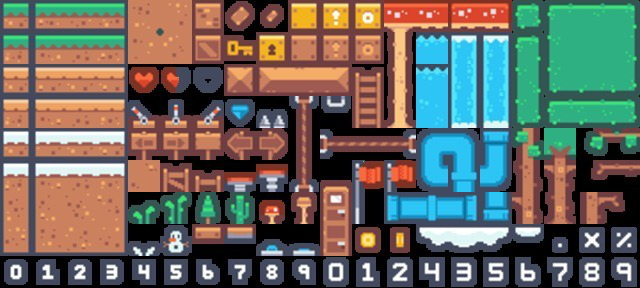
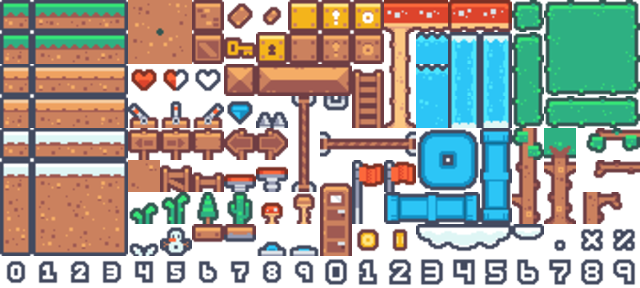
Al 6-lea commit: coliziunile sunt ok, am renuntat pe parcurs la cateva functii, am reusit sa parsez mapa cu 3 layere.

diff --git a/src/Levels/LevelHandler.java b/src/Levels/LevelHandler.java
@@ -11,31 +11,127 @@ public class LevelHandler {
     private Game game;
     private BufferedImage []levelMap;
     private Level FirstLevel;
+    private Level FirstLevel2;
+    private Level BackGround;
     public LevelHandler(Game game)
     {
         this.game = game;
         importMapSprites();
-        FirstLevel = new Level(Load.getLevelMatrix());
+        FirstLevel = new Level(new int[][]{
+                {0,0,0,0,0,0,0,0,0,0,0,0,0,0,0,0,0,0,0,0,0,0,0,0,0,0,0,0,0,0,0,0,0,0,0,0,0,0,0,0,0,0,0,0,0,0,0,0,0,0,0,0,0,0,0,0,0,0,0,0},
+                {0,0,0,0,0,0,0,0,0,0,0,0,0,0,0,0,0,0,0,0,0,0,0,0,0,0,0,0,0,0,0,0,0,0,0,0,0,0,0,0,0,0,0,0,0,0,0,0,0,0,0,0,0,0,0,0,0,0,0,0},
+                {0,0,0,0,0,0,0,0,0,157,0,0,0,0,0,0,0,0,0,0,0,0,0,0,0,0,0,0,0,0,154,155,155,155,155,155,155,156,0,0,0,0,0,0,0,0,0,0,0,0,0,0,0,0,0,0,0,0,0,0},
+                {0,0,0,154,155,155,155,155,156,0,0,0,0,0,0,0,0,0,0,0,0,0,0,0,0,0,0,0,0,0,0,0,154,155,155,156,0,0,0,0,0,0,0,0,0,0,154,155,155,156,0,0,0,0,0,0,0,0,0,0},
+                {0,0,157,0,0,0,0,0,0,0,0,0,0,0,0,0,0,0,154,155,156,0,0,0,0,0,0,0,0,0,0,0,0,0,0,0,0,0,0,0,0,0,0,0,0,0,0,0,0,0,0,0,0,0,0,0,0,0,0,0},
+                {0,0,0,0,0,0,0,0,0,0,0,0,0,0,0,0,0,0,0,0,0,0,0,0,154,155,156,0,0,0,0,0,0,0,0,0,0,0,0,0,0,0,0,0,0,0,0,0,0,0,0,0,0,0,157,0,0,0,0,0},
+                {0,0,0,0,0,0,0,0,0,0,0,0,0,0,0,0,0,0,0,0,0,0,0,0,0,0,0,0,0,0,0,0,0,0,0,0,0,0,0,0,0,0,0,0,0,0,0,0,0,0,0,0,0,0,0,0,0,0,0,0},
+                {0,0,0,0,0,0,0,0,0,0,0,0,0,0,0,0,0,0,0,0,0,0,0,0,0,0,0,0,0,0,0,0,0,0,0,0,0,0,0,0,0,0,0,2,3,3,3,4,0,0,0,0,0,0,0,0,0,0,0,0},
+                {0,0,0,0,0,0,0,0,0,0,0,0,0,0,0,0,0,0,0,0,0,0,0,0,0,0,0,0,0,0,0,0,0,0,0,0,0,0,0,0,0,0,0,0,0,0,0,0,0,0,0,0,0,0,0,0,0,0,0,0},
+                {0,0,2,3,4,0,0,0,0,0,0,0,0,0,0,0,0,0,0,0,0,0,0,0,0,0,0,0,0,0,0,0,0,0,0,0,0,0,0,0,0,0,0,0,0,0,0,0,0,0,0,0,0,0,0,0,0,0,0,0},
+                {0,0,0,0,0,0,0,0,0,0,0,0,0,0,0,0,0,0,0,0,0,0,0,0,0,0,0,0,22,23,23,23,23,23,23,24,0,0,0,2,3,3,4,0,0,0,0,0,0,0,0,0,0,0,0,0,0,0,0,0},
+                {0,0,0,0,0,0,0,0,0,0,0,0,0,0,0,0,0,0,0,0,0,0,0,22,23,23,23,23,123,123,123,123,123,123,123,124,0,0,0,0,0,0,0,0,0,0,0,0,0,0,0,22,23,24,0,0,0,0,0,0},
+                {0,0,0,0,0,89,0,0,0,0,0,0,0,0,0,0,0,0,0,0,0,0,22,123,123,123,123,123,123,123,123,123,123,123,123,124,0,0,0,0,0,0,0,0,0,0,0,0,0,0,22,123,123,123,23,23,24,0,0,0},
+                {0,0,0,0,0,22,23,23,23,23,24,0,0,0,0,0,0,0,0,22,23,23,123,123,123,123,123,123,123,123,123,123,123,123,123,124,0,0,0,0,0,0,0,0,0,0,0,0,0,22,123,123,123,123,123,123,123,24,0,0},
+                {0,22,23,23,23,123,123,123,123,123,123,24,0,0,0,0,0,0,22,123,123,123,123,123,123,123,123,123,123,123,123,123,123,123,123,123,23,23,23,23,24,0,0,0,0,0,0,0,0,122,123,123,123,123,123,123,123,123,23,24},
+                {22,123,123,123,123,123,123,123,123,123,123,123,23,23,23,23,23,23,123,123,123,123,123,123,123,123,123,123,123,123,123,123,123,123,123,123,123,123,123,123,123,24,69,69,69,69,22,23,23,123,123,123,123,123,123,123,123,123,123,124},
+                {122,123,123,123,123,123,123,123,123,123,123,123,123,123,123,123,123,123,123,123,123,123,123,123,123,123,123,123,123,123,123,123,123,123,123,123,123,123,123,123,123,123,123,123,123,123,123,123,123,123,123,123,123,123,123,123,123,123,123,124},
+                {122,123,123,123,123,123,123,123,123,123,123,123,123,123,123,123,123,123,123,123,123,123,123,123,123,123,123,123,123,123,123,123,123,123,123,123,123,123,123,123,123,123,123,123,123,123,123,123,123,123,123,123,123,123,123,123,123,123,123,124},
+                {122,123,123,123,123,123,123,123,123,123,123,123,123,123,123,123,123,123,123,123,123,123,123,123,123,123,123,123,123,123,123,123,123,123,123,123,123,123,123,123,123,123,123,123,123,123,123,123,123,123,123,123,123,123,123,123,123,123,123,124},
+                {142,143,143,143,143,143,143,143,143,143,143,143,143,143,143,143,143,143,143,143,143,143,143,143,143,143,143,143,143,143,143,143,143,143,143,143,143,143,143,143,143,143,143,143,143,143,143,143,143,143,143,143,143,143,143,143,143,143,143,144}
+        });
+        FirstLevel2 = new Level(new int[][]{
+        {0,0,0,0,0,0,0,0,0,0,0,0,0,0,0,0,0,0,0,0,0,0,0,0,0,0,0,0,0,0,0,0,0,0,0,0,0,0,0,0,0,0,0,0,0,0,0,0,0,0,0,0,0,0,0,0,0,0,0,0},
+        {0,0,0,0,0,0,0,0,0,0,0,0,0,0,0,0,0,0,0,0,0,0,0,0,0,0,0,0,0,0,0,0,0,0,0,0,0,0,0,0,0,0,0,0,0,0,0,0,0,0,0,0,0,0,0,0,0,0,0,0},
+        {0,0,0,0,0,0,0,0,0,0,0,0,0,0,0,0,0,0,0,0,0,0,0,0,0,0,0,0,0,0,0,0,0,0,0,0,0,0,0,0,0,0,0,0,0,0,0,0,0,0,0,0,0,0,0,0,0,0,0,0},
+        {0,0,0,0,0,0,0,0,0,0,0,0,0,0,0,0,0,0,0,0,0,0,0,0,0,0,0,0,0,0,0,0,0,0,0,0,0,0,0,0,0,0,0,0,0,0,0,0,0,0,0,0,0,0,0,0,0,0,0,0},
+        {0,0,0,0,0,0,0,0,0,0,0,0,0,0,0,0,0,0,0,0,0,0,0,0,0,0,0,0,0,0,0,0,0,0,0,0,0,0,0,0,0,0,0,0,0,0,0,0,0,0,0,0,0,0,0,0,0,0,0,0},
+        {0,0,0,0,0,0,0,0,0,0,0,0,0,0,0,0,0,0,0,0,0,0,0,0,0,0,0,0,0,0,0,0,0,0,0,0,0,0,0,0,0,0,0,0,0,0,0,0,0,0,0,0,0,0,0,0,0,0,0,0},
+        {0,0,0,0,0,0,0,0,0,0,0,0,0,0,0,0,0,0,0,0,0,0,0,0,0,0,0,0,0,0,0,0,0,0,0,0,0,0,0,0,0,0,0,0,0,0,0,0,0,0,0,0,0,0,0,0,0,0,0,0},
+        {0,0,0,0,0,0,0,0,0,0,0,0,0,0,0,0,0,0,0,0,0,0,0,0,0,0,0,0,0,0,0,0,0,0,0,0,0,0,0,0,0,0,0,0,0,0,0,0,0,0,0,0,0,0,0,0,0,0,0,0},
+        {0,0,0,0,0,0,0,0,0,0,0,0,0,0,0,0,0,0,0,0,0,0,0,0,0,0,0,0,0,0,0,0,0,0,0,0,0,0,0,0,0,0,0,0,0,0,0,0,0,0,0,0,0,0,0,0,0,0,0,0},
+        {0,0,0,0,0,0,0,0,0,0,0,0,0,0,0,0,0,0,0,0,0,0,0,0,0,0,0,0,0,0,0,0,0,0,0,0,0,0,0,0,0,0,0,0,0,0,0,0,0,0,0,0,0,0,0,0,0,0,0,0},
+        {0,0,0,0,0,0,0,0,0,0,0,0,0,0,0,0,0,0,0,0,0,0,0,0,0,0,0,0,0,0,0,0,0,0,0,0,0,0,0,0,0,0,0,0,0,0,0,0,0,0,0,0,0,0,0,0,0,0,0,0},
+        {0,0,0,0,0,0,0,0,0,0,0,0,0,0,0,0,0,0,0,0,0,0,0,0,0,0,0,0,0,0,0,0,0,0,0,0,0,0,0,0,0,0,0,0,0,0,0,0,0,0,0,0,0,0,0,0,0,0,0,0},
+        {0,0,0,0,0,0,0,0,0,0,0,0,0,0,0,0,0,0,0,0,0,0,0,0,0,0,0,0,0,0,0,0,0,0,0,0,0,0,0,0,0,0,0,0,0,0,0,0,0,0,0,0,0,0,0,0,0,0,0,0},
+        {0,0,0,0,0,0,0,0,0,0,0,0,0,0,0,0,0,0,0,0,0,0,0,0,0,0,0,0,0,0,0,126,0,0,0,0,0,0,0,0,0,0,0,0,0,0,0,0,0,0,0,0,0,0,0,0,0,0,0,0},
+        {0,0,0,0,0,0,0,0,0,0,0,0,0,0,0,0,0,0,0,0,0,0,0,0,0,0,0,0,22,23,23,23,24,0,0,0,0,0,0,0,0,0,0,0,0,0,0,0,0,0,0,0,0,0,0,0,0,0,0,0},
+        {0,0,0,0,129,0,0,0,0,0,0,0,0,0,0,0,0,0,0,0,0,0,0,0,0,0,0,0,122,123,123,123,124,0,0,0,0,0,0,0,0,0,0,0,0,0,0,0,0,0,0,0,0,127,127,0,0,0,0,0},
+        {0,0,0,0,62,63,64,0,0,0,0,0,0,0,0,0,0,0,0,0,0,0,0,0,0,0,0,0,122,123,123,123,124,0,0,0,0,0,0,0,0,0,0,0,0,0,0,0,0,0,0,0,22,23,23,24,0,0,0,0},
+        {0,0,0,0,122,123,124,0,0,0,0,0,0,0,0,0,0,0,0,0,0,0,0,0,0,0,0,0,122,123,123,123,124,0,0,0,0,0,0,0,0,0,0,0,0,0,0,0,0,0,0,0,122,123,123,124,0,0,0,0},
+        {0,0,0,0,122,123,124,0,0,0,0,0,0,0,0,0,0,0,0,0,0,0,0,0,0,0,0,0,122,123,123,123,124,0,0,0,0,0,0,0,0,0,0,0,0,0,0,0,0,0,0,0,122,123,123,124,0,0,0,0},
+        {0,0,0,0,142,143,144,0,0,0,0,0,0,0,0,0,0,0,0,0,0,0,0,0,0,0,0,0,142,143,143,143,144,0,0,0,0,0,0,0,0,0,0,0,0,0,0,0,0,0,0,0,142,143,143,144,0,0,0,0}}
+    );
+
+        BackGround = new Level(new int[][]{
+                {0,0,0,0,0,0,0,0,0,0,0,0,0,0,0,0,0,0,0,0,0,0,0,0,0,0,0,0,0,0,0,0,0,0,0,0,0,0,0,0,0,0,0,0,0,0,0,0,0,0,0,0,0,0,0,0,0,0,0,0},
+                {0,0,0,0,0,0,0,0,0,0,0,0,0,0,0,0,0,0,0,0,0,0,0,0,0,0,0,0,0,0,0,0,0,0,0,0,0,0,0,0,0,0,0,0,0,0,0,0,0,0,0,0,0,0,0,0,0,0,0,0},
+                {0,0,0,0,0,0,0,0,0,0,0,0,0,0,0,0,0,0,0,0,0,0,0,0,0,0,0,0,0,0,0,0,0,0,0,0,0,0,0,0,0,0,0,0,0,0,0,0,0,0,0,0,0,0,0,0,0,0,0,0},
+                {0,0,0,0,0,0,0,0,0,0,0,0,0,0,0,0,0,0,0,0,0,0,0,0,0,0,0,0,0,0,0,0,0,0,0,0,0,0,0,0,0,0,0,0,0,0,0,0,0,0,0,0,0,0,0,0,0,0,0,0},
+                {0,0,0,0,0,0,0,0,0,0,0,0,0,0,18,19,19,20,0,0,0,0,0,0,0,0,0,0,0,0,0,0,0,0,0,0,0,0,0,0,0,0,0,0,0,0,0,0,0,0,0,0,0,0,0,0,0,0,0,0},
+                {0,0,0,0,0,0,0,0,0,0,0,0,0,0,38,39,18,19,19,20,0,0,0,0,0,0,0,0,0,0,0,0,0,0,0,0,0,0,0,0,0,0,0,0,0,0,0,0,0,0,0,0,0,0,0,0,0,0,0,0},
+                {0,0,0,0,0,0,0,0,0,0,0,0,0,18,39,39,38,39,39,40,0,0,0,0,0,0,0,0,0,0,0,0,0,0,0,0,0,0,0,0,0,0,0,0,0,0,0,129,0,0,0,0,0,0,0,0,0,0,0,0},
+                {0,0,0,0,0,0,0,0,0,0,0,18,19,19,20,39,38,39,39,40,0,0,0,0,0,0,0,0,0,0,0,0,0,0,0,0,0,0,0,0,0,0,0,0,0,0,0,0,0,0,0,0,0,0,0,0,0,0,0,0},
+                {0,0,0,0,0,0,0,0,0,0,0,38,39,39,40,39,58,59,59,60,0,0,0,0,0,0,0,0,0,0,0,0,0,0,0,0,0,0,0,0,0,0,0,0,0,0,0,0,0,0,0,0,0,0,0,0,0,0,0,0},
+                {0,0,0,0,0,0,0,0,0,0,0,58,59,59,60,39,39,40,0,0,0,0,0,0,0,0,0,0,0,0,0,0,0,0,0,0,0,0,0,0,0,0,0,0,0,0,0,0,0,0,0,0,0,0,0,0,0,0,0,0},
+                {0,0,0,0,0,0,0,0,0,0,0,0,0,58,59,98,59,60,0,0,0,0,0,0,0,0,0,0,0,0,0,0,0,0,0,0,0,0,0,0,0,0,0,0,0,0,0,0,0,0,112,0,0,0,0,0,0,0,0,0},
+                {0,0,0,0,0,0,0,0,0,0,0,0,0,0,0,97,0,0,0,0,0,0,0,0,0,0,0,0,0,0,0,0,0,0,0,0,0,0,0,0,0,0,0,0,0,0,0,0,0,0,132,0,0,0,0,0,0,0,0,0},
+                {0,0,0,0,0,0,0,0,0,0,0,0,0,99,100,137,0,0,0,0,0,0,0,0,0,0,0,0,0,0,0,0,0,0,0,0,0,0,0,0,0,0,0,0,0,0,0,0,0,0,0,0,0,0,0,0,0,0,0,0},
+                {0,0,0,0,0,0,0,0,0,0,0,0,0,0,0,139,140,0,0,0,0,0,0,0,0,0,0,0,0,0,0,0,0,0,0,0,129,0,0,0,0,0,0,0,0,0,0,0,0,0,0,0,0,0,0,0,0,0,0,129},
+                {0,0,0,0,0,0,0,0,0,0,0,0,0,0,0,138,0,0,0,0,0,0,0,0,0,0,0,0,0,0,0,0,0,0,0,0,0,0,0,0,0,0,0,0,0,0,0,0,0,0,0,0,0,0,0,0,0,0,0,0},
+                {0,0,0,0,0,0,0,0,0,0,0,0,0,0,0,0,0,0,0,0,0,0,0,0,0,0,0,0,0,0,0,0,0,0,0,0,0,0,0,0,0,0,0,0,0,0,0,0,0,0,0,0,0,0,0,0,0,0,0,0},
+                {0,0,0,0,0,0,0,0,0,0,0,0,0,0,0,0,0,0,0,0,0,0,0,0,0,0,0,0,0,0,0,0,0,0,0,0,0,0,0,0,0,0,0,0,0,0,0,0,0,0,0,0,0,0,0,0,0,0,0,0},
+                {0,0,0,0,0,0,0,0,0,0,0,0,0,0,0,0,0,0,0,0,0,0,0,0,0,0,0,0,0,0,0,0,0,0,0,0,0,0,0,0,0,0,0,0,0,0,0,0,0,0,0,0,0,0,0,0,0,0,0,0},
+                {0,0,0,0,0,0,0,0,0,0,0,0,0,0,0,0,0,0,0,0,0,0,0,0,0,0,0,0,0,0,0,0,0,0,0,0,0,0,0,0,0,0,0,0,0,0,0,0,0,0,0,0,0,0,0,0,0,0,0,0},
+                {0,0,0,0,0,0,0,0,0,0,0,0,0,0,0,0,0,0,0,0,0,0,0,0,0,0,0,0,0,0,0,0,0,0,0,0,0,0,0,0,0,0,0,0,0,0,0,0,0,0,0,0,0,0,0,0,0,0,0,0}}
+        );
+    // new Level(Load.getLevelMatrix());
     }
 
     private void importMapSprites() {
         BufferedImage image = Load.getImage(Load.mapTiles);
-        levelMap = new BufferedImage[48];
-        for(int j = 0; j < 4; ++j)
-            for(int i=0; i < 12; ++i) {
-                int index = j*12 + i;
-                levelMap[index] = image.getSubimage(i*32, j*32, 32, 32);
+
+        levelMap = new BufferedImage[180];
+        for (int i = 0; i < 9; ++i) {
+            for (int j = 0; j < 20; ++j) {
+                int index = i * 20 + j;
+                levelMap[index] = image.getSubimage(j * 32, i * 32, 32, 32);
             }
+        }
     }
 
     public void draw(Graphics obj)
     {
+
+        for(int j=0;j<Game.HEIGHT_TILES;++j)
+        {
+            for(int i=0;i<Game.WIDTH_TILES;++i)
+            {
+                int index = BackGround.getTileIndex(i, j);
+                if(index != 0) {
+                    obj.drawImage(levelMap[index-1], i * Game.TILE_SIZE, j * Game.TILE_SIZE, Game.TILE_SIZE, Game.TILE_SIZE, null);
+                }
+            }
+        }
+
         for(int j=0;j<Game.HEIGHT_TILES;++j)
         {
             for(int i=0;i<Game.WIDTH_TILES;++i)
             {
                 int index = FirstLevel.getTileIndex(i, j);
-                obj.drawImage(levelMap[index], i*Game.TILE_SIZE, j*Game.TILE_SIZE, Game.TILE_SIZE, Game.TILE_SIZE, null);
+                if(index != 0) {
+                    obj.drawImage(levelMap[index-1], i * Game.TILE_SIZE, j * Game.TILE_SIZE, Game.TILE_SIZE, Game.TILE_SIZE, null);
+                }
+            }
+        }
+
+        for(int j=0;j<Game.HEIGHT_TILES;++j)
+        {
+            for(int i=0;i<Game.WIDTH_TILES;++i)
+            {
+                int index = FirstLevel2.getTileIndex(i, j);
+                if(index != 0) {
+                    obj.drawImage(levelMap[index-1], i * Game.TILE_SIZE, j * Game.TILE_SIZE, Game.TILE_SIZE, Game.TILE_SIZE, null);
+                }
             }
         }
     }

diff --git a/src/Objects/Player.java b/src/Objects/Player.java
@@ -21,13 +21,13 @@ public class Player extends Character {
     private boolean left, up, right, down, jump;
     private float runSpeed = 1.0f * Game.SCALE, jumpSpeed = -2.0f * Game.SCALE, fallSpeed = 0.2f * Game.SCALE;
     private float gravity = 0.02f * Game.SCALE, airVelocity = 0.0f;
-    private float xOffset = 35 * Game.SCALE, yOffset = 48 * Game.SCALE;
+    private float xOffset = 50 * Game.SCALE, yOffset = 55 * Game.SCALE;
 
 
     private Player(float x, float y, int width, int height) {
         super(x, y, width, height);
         loadAnimations();
-        initCollisionBox(x, y, (int)(21*Game.SCALE), (int)(50*Game.SCALE)); // prin incercari am calculat width-ul si height-ul aproximativ al imaginii caracterului
+        initCollisionBox(x, y, (int)(23*Game.SCALE), (int)(73*Game.SCALE)); // prin incercari am calculat width-ul si height-ul aproximativ al imaginii caracterului
     }
 
     public static Player getInstance(float x, float y, int width, int height)
@@ -115,6 +115,7 @@ public class Player extends Character {
             animationIndex += 1;
             if (animationIndex >= GetSpriteAmount(playerAction)) {
                 animationIndex = 0;
+                attacking = false;
             }
         }
     }

diff --git a/src/Main/Game.java b/src/Main/Game.java
@@ -16,8 +16,8 @@ public class Game implements Runnable{
     private final int UPS = 200; // updates/second
     private final int FPS = 120; // frames/second
     public final static int TILE_DEFAULT_SIZE = 32;
-    public final static float SCALE = 1.5f;
-    public final static int WIDTH_TILES = 30;
+    public final static float SCALE = 1f;
+    public final static int WIDTH_TILES = 60;
     public final static int HEIGHT_TILES = 20;
     public final static int TILE_SIZE = (int) (TILE_DEFAULT_SIZE * SCALE);
     public final static int GAME_WIDTH = TILE_SIZE * WIDTH_TILES;
@@ -47,7 +47,7 @@ public class Game implements Runnable{
     private void init() {
         levelHandler = new LevelHandler(this);
         // x:200, y:200 - pozitia initiala
-        player = Player.getInstance(200*SCALE, 170*SCALE, (int)(SCALE*98), (int)(SCALE*98)); // 98 = 128(cat are in realitate) - 30
+        player = Player.getInstance(200*SCALE, 170*SCALE, (int)(SCALE*128), (int)(SCALE*128));
         player.loadLevelData(levelHandler.getLevel().getLevelMatrix());
     }
 

diff --git a/src/Levels/Level.java b/src/Levels/Level.java
@@ -6,6 +6,14 @@ public class Level {
     public Level(int[][] levelMatrix)
     {
         this.levelMatrix = levelMatrix;
+        for(int j=0;j<levelMatrix.length;++j)
+        {
+            for(int i=0;i<levelMatrix[j].length;++i)
+            {
+                System.out.print(getTileIndex(i, j) + " ");
+            }
+            System.out.println();
+        }
     }
 
     public int[][] getLevelMatrix()

diff --git a/src/LoadSave/Load.java b/src/LoadSave/Load.java
@@ -10,7 +10,7 @@ import java.io.InputStream;
 
 public class Load {
 
-    public static final String mapTiles = "/level_map/outside_sprites.png";
+    public static final String mapTiles = "/level_map/TileMap.png";
     public static final String firstLevel = "/level_map/level_one_data.png";
 
     public static BufferedImage getImage(String sourceName) {

diff --git a/src/Graphics/Check.java b/src/Graphics/Check.java
@@ -20,7 +20,7 @@ public class Check {
         float xIndex = x / Game.TILE_SIZE;
         float yIndex = y / Game.TILE_SIZE;
         int value = levelMatrix[(int) yIndex][(int) xIndex];
-        if (value >= 48 || value < 0 || value != 11) {
+        if (value != 0) {
             return true;
         }
         return false;

diff --git a/src/Main/Main.java b/src/Main/Main.java
@@ -1,5 +1,6 @@
 package Main;
 
+
 public class Main {
     public static void main(String[] args) {
         System.out.println("Hello world!");
